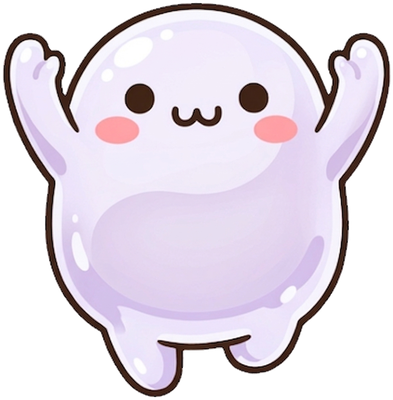
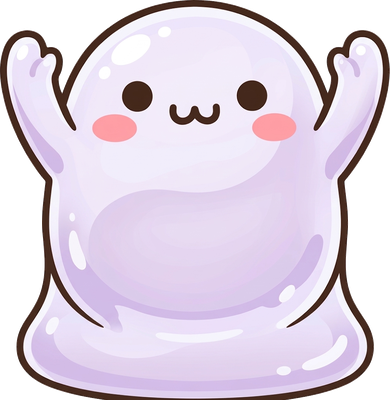
結果画面：そだてられるを消し、ボタンが広告にもぐらないよう詰める／ヒトガタ第2段階を足なし・眉なしに

diff --git a/index.html b/index.html
@@ -338,6 +338,11 @@ body.cinema #adbar, body.cinema #mute{display:none}
 }
 @keyframes pop{0%{transform:scale(.3)}100%{transform:scale(1)}}
 .r-gap{margin-top:8px;font-size:13px;color:var(--dim)}
+/* 結果画面はボタンが多いので、縦の短いスマホでも広告にもぐらないよう間を詰める */
+#resultView .tap{margin-top:12px}
+#resultView .r-best{margin-top:6px}
+#resultView .r-gap{margin-top:4px}
+@media (max-aspect-ratio: 3/4){ #resultView.overlay{padding-top:max(6vh, calc(env(safe-area-inset-top) + 56px));padding-bottom:calc(56px + 30px + env(safe-area-inset-bottom))} }
 
 .revive{
   pointer-events:auto;margin-top:14px;padding:14px 26px;border-radius:99px;
@@ -1479,7 +1484,7 @@ function die(){
     const gap = Math.floor(game.best - score);
     $("rGap").textContent = (!isNew && gap > 0 ? `ベストまで あと ${gap}` : "") + (game.revived ? "　（復活を使った）" : "");
     $("rGems").innerHTML = `💎 ＋${earned}<span style="font-size:11px;color:#C98016">（ひろった ${picked}${dist ? `＋きょり ${dist}` : ""}）</span>　もちもの <b>${pet.gems}</b>`;
-    $("rGrow").classList.toggle("hide", !canEvolve());
+    // 結果画面には「そだてられる」を出さない（ゆま 9/17）。おうちの「そだてる」の！で知らせる
     $("reviveBtn").classList.toggle("hide", game.revived);
     $("reviveBtn").textContent = noAds() ? "▶　復活する（広告なし）" : "▶　広告を見て復活";
     $("noadsBtn").classList.toggle("hide", game.revived || noAds());
@@ -1527,7 +1532,7 @@ function clearRun(){
     $("rBest").innerHTML = `ベスト <b>${Math.floor(game.best)}</b>`;
     $("rGap").textContent = perfect ? "" : `クリスタル ${game.runGems} / ${run.gemTotal}` + (game.revived ? "　（復活を使った）" : "");
     $("rGems").innerHTML = `💎 ＋${earned}<span style="font-size:11px;color:#C98016">（ひろった ${picked}＋きょり ${dist}＋クリア ${reward}）</span>　もちもの <b>${pet.gems}</b>`;
-    $("rGrow").classList.toggle("hide", !canEvolve());
+    // 結果画面には「そだてられる」を出さない（ゆま 9/17）。おうちの「そだてる」の！で知らせる
     $("reviveBtn").classList.add("hide"); $("noadsBtn").classList.add("hide");
     $("resultView").classList.remove("hide");
     $("rHome").classList.add("hide");
